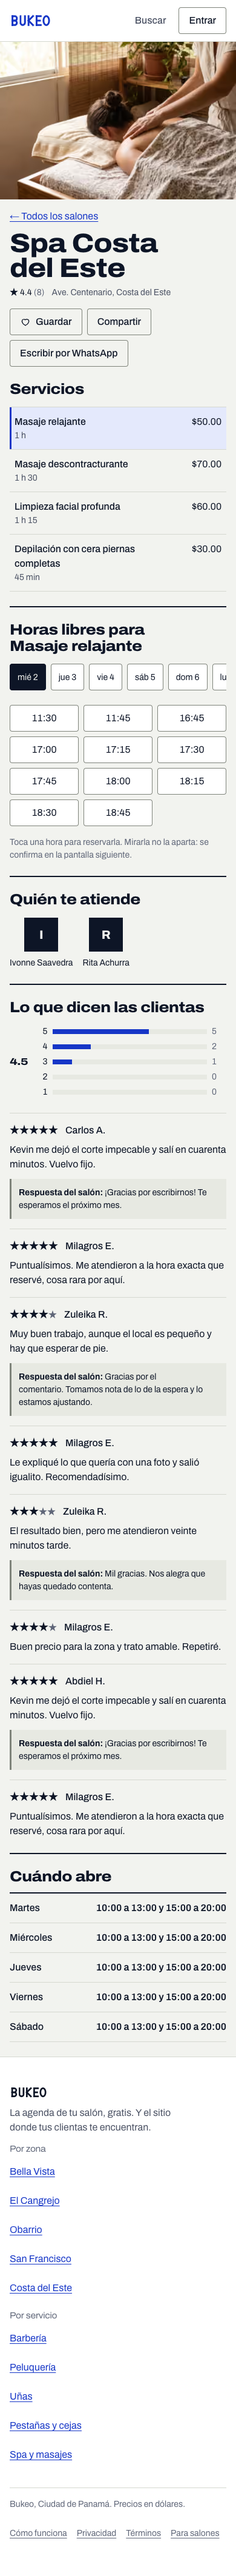
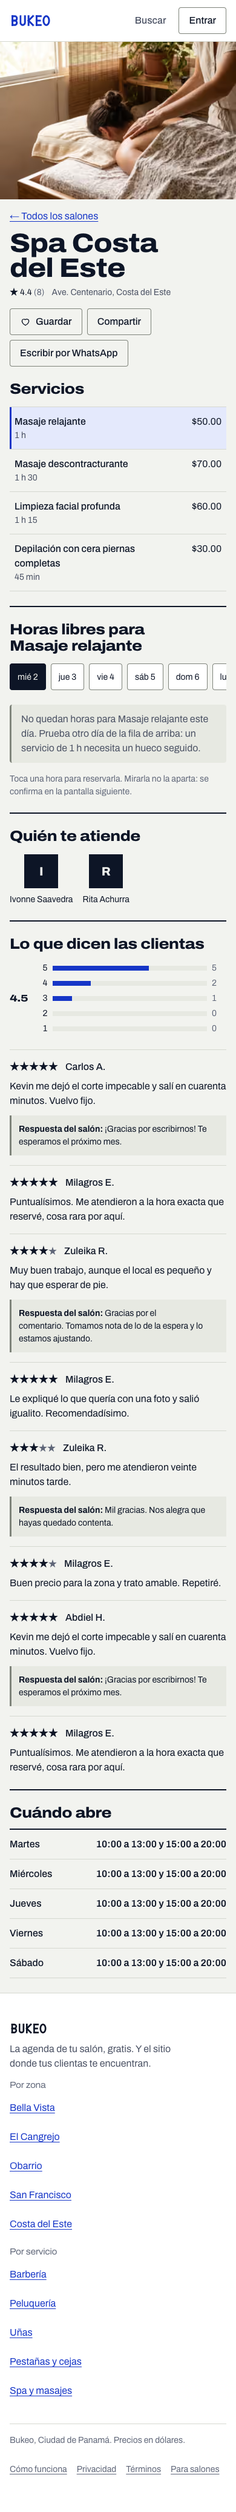
fix(semilla): las reseñas dejan de ser de barbería en todos los salones
En la ficha del spa se leía «Kevin me dejó el corte impecable» firmado por
una clienta, y el equipo de ese spa son Ivonne y Rita. Con seis textos
reutilizados en once salones de siete oficios distintos, la demo se
desmonta sola en la primera pantalla que alguien mire con calma.

Ahora hay un juego de textos por categoría —barbería, peluquería, uñas,
pestañas, spa, maquillaje y estética— y el nombre que aparece es el de la
profesional que atendió esa cita de verdad, no uno inventado.

Y el texto no da por hecho el género de quien escribe: «Salí nueva»
firmado por Carlos A. delata la demo tanto como el nombre equivocado.

161 pruebas en verde y el recorrido de una clienta pasa entero.

diff --git a/apps/api/agenda/semilla.py b/apps/api/agenda/semilla.py
@@ -854,7 +854,7 @@ async def _negocio(
 
     if definicion["estado"] == "publicado":
         await _agenda_de_ejemplo(sesion, negocio, equipo, servicios, fichas)
-        await _resenas_de_ejemplo(sesion, negocio, equipo, fichas)
+        await _resenas_de_ejemplo(sesion, negocio, equipo, fichas, definicion["categoria"])
 
 
 async def _agenda_de_ejemplo(
@@ -901,15 +901,77 @@ async def _agenda_de_ejemplo(
                 await _cita(sesion, negocio, profesional, servicio, cliente, inicio, fin, estado)
 
 
-#: Qué escribe cada clienta. Textos de salón panameño, no «Muy bueno» repetido cuatro veces:
-#: una lista de reseñas todas iguales no deja ver si el reparto de notas se pinta bien.
-RESENAS = [
-    (5, "Kevin me dejó el corte impecable y salí en cuarenta minutos. Vuelvo fijo."),
-    (5, "Puntualísimos. Me atendieron a la hora exacta que reservé, cosa rara por aquí."),
-    (4, "Muy buen trabajo, aunque el local es pequeño y hay que esperar de pie."),
-    (5, "Le expliqué lo que quería con una foto y salió igualito. Recomendadísimo."),
-    (3, "El resultado bien, pero me atendieron veinte minutos tarde."),
-    (4, "Buen precio para la zona y trato amable. Repetiré."),
+#: Qué escribe cada clienta, **por tipo de salón**. Los textos van por categoría porque una
+#: reseña que dice «me dejó el corte impecable» en un spa de masajes se nota a la primera, y una
+#: demo que se nota deja de servir para enseñar nada. `{quien}` se sustituye por el nombre de la
+#: profesional que atendió esa cita de verdad, no por un nombre inventado.
+RESENAS_POR_CATEGORIA: dict[str, list[tuple[int, str]]] = {
+    "barberia": [
+        (5, "{quien} me dejó el corte impecable y salí en cuarenta minutos. Vuelvo fijo."),
+        (5, "Puntualísimos. Me atendieron a la hora exacta que reservé, cosa rara por aquí."),
+        (4, "Buen corte, aunque el local es pequeño y hay que esperar de pie."),
+        (5, "Le enseñé una foto a {quien} y salió igualito. Recomendadísimo."),
+        (3, "El corte bien, pero me atendieron veinte minutos tarde."),
+        (4, "Buen precio para la zona y trato amable. Repetiré."),
+    ],
+    "peluqueria": [
+        (5, "El balayage me quedó justo del tono que quería. {quien} tiene muy buena mano."),
+        (5, "Me explicaron qué le iba a hacer al pelo antes de tocarlo. Se agradece."),
+        (4, "Bien el color, aunque tardó más de lo que decía la reserva."),
+        (5, "Salí con el pelo como no lo tenía hace años. Ya reservé la próxima."),
+        (3, "El corte correcto, pero el secado lo hicieron con prisa."),
+        (4, "Trato buenísimo y precio justo para Ciudad de Panamá."),
+    ],
+    "unas": [
+        (5, "Me duraron tres semanas enteras sin saltarse ni una. {quien} es una crack."),
+        (5, "Súper limpio todo, y el diseño quedó igual a la foto que llevé."),
+        (4, "Bonitas, pero se me astilló una a los diez días."),
+        (5, "Es el único sitio donde no me han dejado la cutícula destrozada."),
+        (3, "El trabajo bien; el problema fue la espera, casi media hora."),
+        (4, "Buen precio y muy cómodo el sitio. Volveré."),
+    ],
+    "pestanas-cejas": [
+        (5, "Me dejó las cejas simétricas por primera vez en mi vida. Gracias, {quien}."),
+        (5, "Las pestañas duraron mes y medio y no se me cayó ni una tanda."),
+        (4, "Buen resultado, aunque el diseño quedó un pelín más marcado de lo que pedí."),
+        (5, "Me asesoró con la forma en vez de hacerme lo de siempre. Eso vale mucho."),
+        (3, "Bien, pero la sesión se alargó y llegué tarde a lo mío."),
+        (4, "Sitio limpio y precio razonable para la zona."),
+    ],
+    "spa-masajes": [
+        (5, "{quien} encontró justo el nudo del hombro sin que se lo dijera. Salí de otra manera."),
+        (5, "El sitio es tranquilísimo y no te meten prisa al terminar."),
+        (4, "Muy buen masaje, aunque la sala estaba un poco fría."),
+        (5, "Me reservé la hora un martes y me atendieron puntuales. Repetiré."),
+        (3, "Bien el masaje, pero la música se oía desde la recepción."),
+        (4, "Buena relación calidad-precio. Vuelvo el mes que viene."),
+    ],
+    "maquillaje": [
+        (5, "Me maquilló {quien} para una boda y aguantó doce horas sin retocar."),
+        (5, "Escuchó lo que quería en vez de hacerme lo que le gusta a ella. Eso se nota."),
+        (4, "Muy bien el resultado, aunque hubo que ir con bastante antelación."),
+        (5, "Salí en las fotos como quería salir. No se puede pedir más."),
+        (3, "Correcto, pero para el precio esperaba algo más de asesoría."),
+        (4, "Trato encantador y sitio muy cómodo."),
+    ],
+    "estetica": [
+        (5, "La limpieza facial me dejó la piel como no la tenía hace meses."),
+        (5, "{quien} me explicó qué me iba a hacer y por qué. Nada de vender por vender."),
+        (4, "Buen tratamiento, aunque la cabina es pequeña."),
+        (5, "Se nota que saben: me recomendaron esperar en vez de venderme una sesión más."),
+        (3, "El resultado bien, pero me atendieron con retraso."),
+        (4, "Precio honesto y trato cercano. Repetiré."),
+    ],
+}
+
+#: Para un salón cuya categoría no está arriba. Sirve para cualquier oficio.
+RESENAS_GENERICAS = [
+    (5, "Puntualísimos y muy buen trato. {quien} sabe lo que hace."),
+    (5, "Reservé desde el móvil y me atendieron a la hora exacta. Sin llamadas."),
+    (4, "Muy buen resultado, aunque el sitio es pequeño."),
+    (5, "Ya es el tercer mes que vuelvo. Eso lo dice todo."),
+    (3, "Bien, pero me atendieron con veinte minutos de retraso."),
+    (4, "Buen precio para la zona y trato amable."),
 ]
 
 #: Lo que responde el salón. Una por reseña, que es lo que permite REV-3.
@@ -925,6 +987,7 @@ async def _resenas_de_ejemplo(
     negocio: Business,
     equipo: list[StaffProfile],
     fichas: list[BusinessClient],
+    categoria: str,
 ) -> None:
     """Reseñas sobre citas **completadas**, con su respuesta y el agregado ya calculado.
 
@@ -951,8 +1014,13 @@ async def _resenas_de_ejemplo(
 
     # Ni todas las citas llevan reseña ni ninguna: una de cada tres es lo que se ve en un
     # marketplace real, y es lo que hace que el rating bayesiano tenga sentido.
+    textos = RESENAS_POR_CATEGORIA.get(categoria, RESENAS_GENERICAS)
     for indice, reserva in enumerate(completadas[::3]):
-        nota, texto = RESENAS[indice % len(RESENAS)]
+        nota, plantilla = textos[indice % len(textos)]
+        # Quien atendió esa cita, por su nombre. Antes salía «Kevin» en todos los salones,
+        # incluidos los spas cuyo equipo son Ivonne y Rita: se ve a la primera que es de mentira.
+        quien = next((p.display_name for p in equipo if p.id == reserva.staff_id), "el equipo")
+        texto = plantilla.format(quien=quien.split()[0])
         ficha = next((f for f in fichas if f.id == reserva.business_client_id), None)
         resena = Review(
             business_id=negocio.id,
